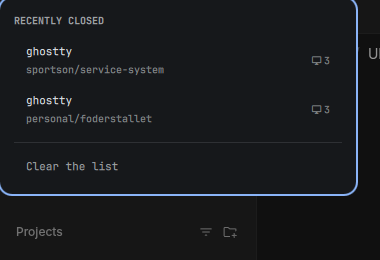
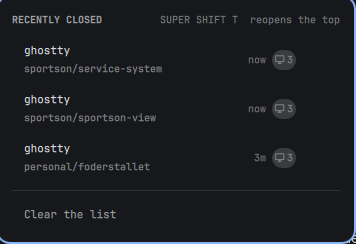
Say when a window closed, forget one row, count the tabs
A list of recently closed windows without a when is half a list: the one from
two minutes ago is nearly always what you want and the one from the day before
yesterday is what you scroll past. Clearing the whole list to be rid of one row
was a blunt instrument, and a browser row now says how many pages a click gives
back.

A dot on the bar icon when there is something to undo — a dot rather than a
count, because the answer you want at a glance is yes or no, not eleven.

diff --git a/Panel.qml b/Panel.qml
@@ -29,6 +29,17 @@ Panel {
   // What the newest row is one keypress away from, if anything is bound to it.
   property string shortcut: ""
 
+  // Re-read while the panel is open so "now" becomes "1m" under your eyes
+  // rather than the moment you reopen the panel.
+  property double clock: Date.now()
+
+  Timer {
+    interval: 30000
+    running: root.opened
+    repeat: true
+    onTriggered: root.clock = Date.now()
+  }
+
   property bool cursorActive: false
   property int cursorIndex: 0
 
@@ -66,6 +77,13 @@ Panel {
     root.cursorIndex = next < 0 ? root.shown.length - 1 : (next >= root.shown.length ? 0 : next)
   }
 
+  function forget(index) {
+    var next = Model.withoutIndex(root.closed, index)
+    if (!next) return
+    root.closed = next
+    stateFile.setText(Model.serialize(next))
+  }
+
   function clearAll() {
     root.closed = []
     stateFile.setText(Model.serialize([]))
@@ -75,6 +93,7 @@ Panel {
     if (!opened) return
     root.cursorActive = false
     root.cursorIndex = 0
+    root.clock = Date.now()
     if (!bindsProc.running) bindsProc.running = true
   }
 
@@ -233,6 +252,7 @@ Panel {
     accent: root.bar ? root.bar.foreground : Color.accent
 
     MouseArea {
+      id: rowMouse
       anchors.fill: parent
       hoverEnabled: true
       cursorShape: Qt.PointingHandCursor
@@ -251,7 +271,7 @@ Panel {
       spacing: Style.spacing.md
 
       Column {
-        width: parent.width - parent.spacing - workspaceLabel.implicitWidth
+        width: parent.width - parent.spacing * 3 - ageLabel.implicitWidth - workspaceLabel.implicitWidth - Style.space(26)
         anchors.verticalCenter: parent.verticalCenter
         spacing: Style.spacing.labelGap
 
@@ -267,12 +287,30 @@ Panel {
         Text {
           width: parent.width
           visible: text !== ""
-          text: Model.entryDetail(closedRow.entry, root.home)
+          text: {
+            var parts = []
+            var detail = Model.entryDetail(closedRow.entry, root.home)
+            if (detail !== "") parts.push(detail)
+            // What a click actually gives back, rather than what the window was.
+            var tabs = Model.tabCount(closedRow.entry)
+            if (tabs > 1) parts.push(tabs + " tabs")
+            return parts.join("  ·  ")
+          }
           color: Qt.darker(root.barForeground, 1.6)
           font.family: root.fontFamily
           font.pixelSize: Style.font.caption
           elide: Text.ElideRight
         }
+      }
+
+      Text {
+        id: ageLabel
+        anchors.verticalCenter: parent.verticalCenter
+        visible: text !== ""
+        text: Model.ageLabel(closedRow.entry.closedAt, root.clock)
+        color: Qt.darker(root.barForeground, 1.9)
+        font.family: root.fontFamily
+        font.pixelSize: Style.font.caption
       }
 
       // The badge already says which workspace it came from, so it is the
@@ -309,6 +347,25 @@ Panel {
           color: Qt.darker(root.barForeground, 1.7)
           font.family: root.fontFamily
           font.pixelSize: Style.font.caption
+        }
+      }
+
+      // Clearing the whole list to be rid of one row is a blunt instrument.
+      PanelActionButton {
+        anchors.verticalCenter: parent.verticalCenter
+        visible: rowMouse.containsMouse || badgeMouse.containsMouse || forgetMouse.containsMouse
+        iconText: ""
+        tooltipText: "Forget this one"
+        foreground: root.barForeground
+        hoverColor: root.bar ? root.bar.urgent : Color.urgent
+        fontFamily: root.fontFamily
+        onClicked: root.forget(closedRow.rowIndex)
+
+        MouseArea {
+          id: forgetMouse
+          anchors.fill: parent
+          hoverEnabled: true
+          acceptedButtons: Qt.NoButton
         }
       }
     }

diff --git a/Model.js b/Model.js
@@ -133,8 +133,9 @@ function isIgnored(entry) {
 // Nothing needs deduplicating, because a window closes once — and reopening
 // takes its row off the list, so closing and reopening the same thing over and
 // over never accumulates.
-function withClosed(list, entry, limit) {
+function withClosed(list, entry, limit, now) {
   var next = [{
+    closedAt: Number(now) || 0,
     cmd: entry.cmd,
     "class": entry["class"],
     title: entry.title,
@@ -166,6 +167,7 @@ function parseClosed(text) {
       cmd: String(row.cmd),
       "class": String(row["class"] || ""),
       title: String(row.title || ""),
+      closedAt: Number(row.closedAt) || 0,
       workspace: row.workspace === undefined || row.workspace === null ? "" : String(row.workspace),
       floating: row.floating === true,
       at: String(row.at || ""),
@@ -173,6 +175,13 @@ function parseClosed(text) {
     })
   }
   return out
+}
+
+function withoutIndex(list, index) {
+  if (index < 0 || index >= list.length) return null
+  var next = list.slice()
+  next.splice(index, 1)
+  return next
 }
 
 function serialize(list) {
@@ -211,6 +220,36 @@ function reopenExpr(entry, onto) {
 
   if (rules.length === 0) return "hl.dsp.exec_cmd(" + luaString(entry.cmd) + ")"
   return "hl.dsp.exec_cmd(" + luaString(entry.cmd) + ", { " + rules.join(", ") + " })"
+}
+
+// ------------------------------------------------------------------ age
+//
+// A list of recently closed windows without a "when" is half a list: the window
+// you closed two minutes ago is nearly always the one you are looking for, and
+// one from the day before yesterday is what you scroll past.
+
+function ageLabel(closedAt, now) {
+  var then = Number(closedAt) || 0
+  if (then <= 0) return ""
+
+  var seconds = Math.max(0, Math.round(((Number(now) || 0) - then) / 1000))
+  if (seconds < 60) return "now"
+
+  var minutes = Math.round(seconds / 60)
+  if (minutes < 60) return minutes + "m"
+
+  var hours = Math.round(minutes / 60)
+  if (hours < 24) return hours + "h"
+
+  var days = Math.round(hours / 24)
+  return days + "d"
+}
+
+// How many pages a browser row will bring back. Counted from the command, so it
+// says what a click actually does rather than what the window used to be.
+function tabCount(entry) {
+  var matches = String(entry.cmd || "").match(/(^| )(https?|file):\/\/\S+/g)
+  return matches ? matches.length : 0
 }
 
 // --------------------------------------------------------------- labels

diff --git a/BarWidget.qml b/BarWidget.qml
@@ -12,6 +12,11 @@ BarWidget {
 
   readonly property string icon: setting("icon", "")
 
+  // The icon looks the same whether or not there is anything to undo, so a dot
+  // says there is. A dot rather than a count: a number in a bar is noise, and
+  // the answer you want at a glance is "yes" or "no", not "eleven".
+  readonly property bool hasClosed: panelLoader.item ? panelLoader.item.shown.length > 0 : false
+
   readonly property bool opened: panelLoader.item ? panelLoader.item.opened === true : false
   readonly property bool popoutSwitchClosing: panelLoader.item ? panelLoader.item.popoutSwitchClosing === true : false
 
@@ -66,5 +71,18 @@ BarWidget {
     fontSize: Style.font.icon
     tooltipText: "Recently closed"
     onPressed: function (b) { if (b === Qt.LeftButton) root.togglePanel() }
+
+    Rectangle {
+      anchors.right: parent.right
+      anchors.top: parent.top
+      anchors.rightMargin: Style.space(3)
+      anchors.topMargin: Style.space(4)
+      width: Style.space(4)
+      height: width
+      radius: width / 2
+      visible: root.hasClosed && !root.opened
+      color: root.bar ? root.bar.foreground : Color.foreground
+      opacity: 0.7
+    }
   }
 }

diff --git a/Service.qml b/Service.qml
@@ -92,7 +92,7 @@ Item {
     delete next[address]
     root.live = next
 
-    root.closed = Model.withClosed(root.closed, entry, root.limit)
+    root.closed = Model.withClosed(root.closed, entry, root.limit, Date.now())
     stateFile.setText(Model.serialize(root.closed))
   }
 
